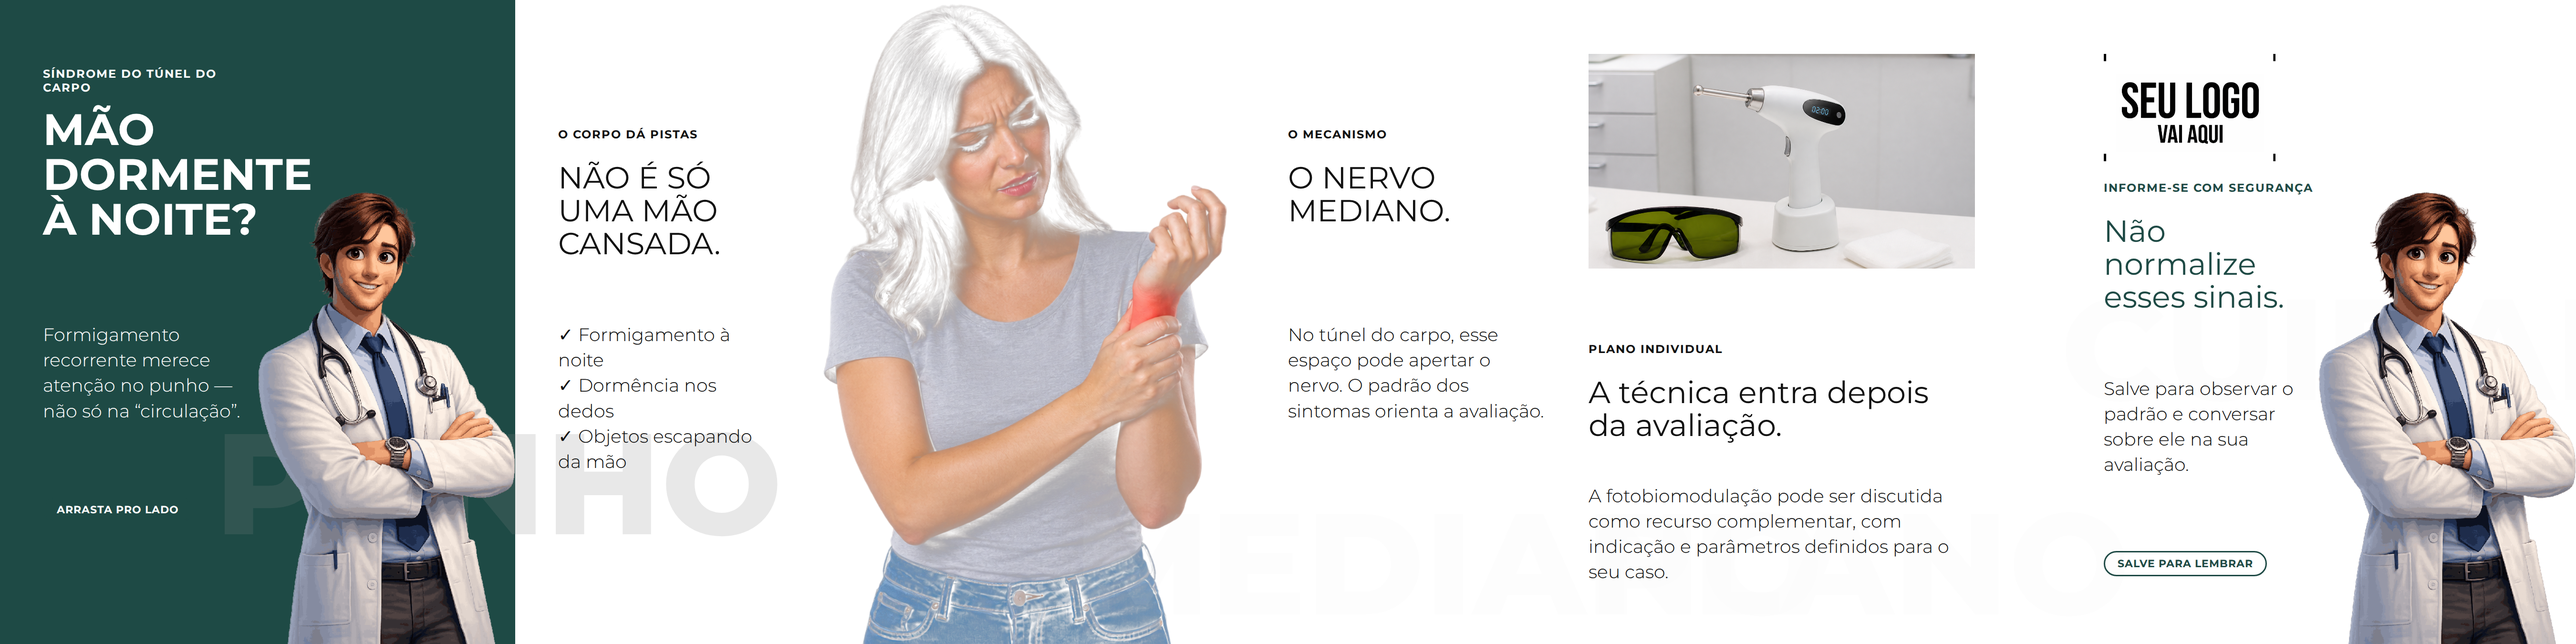
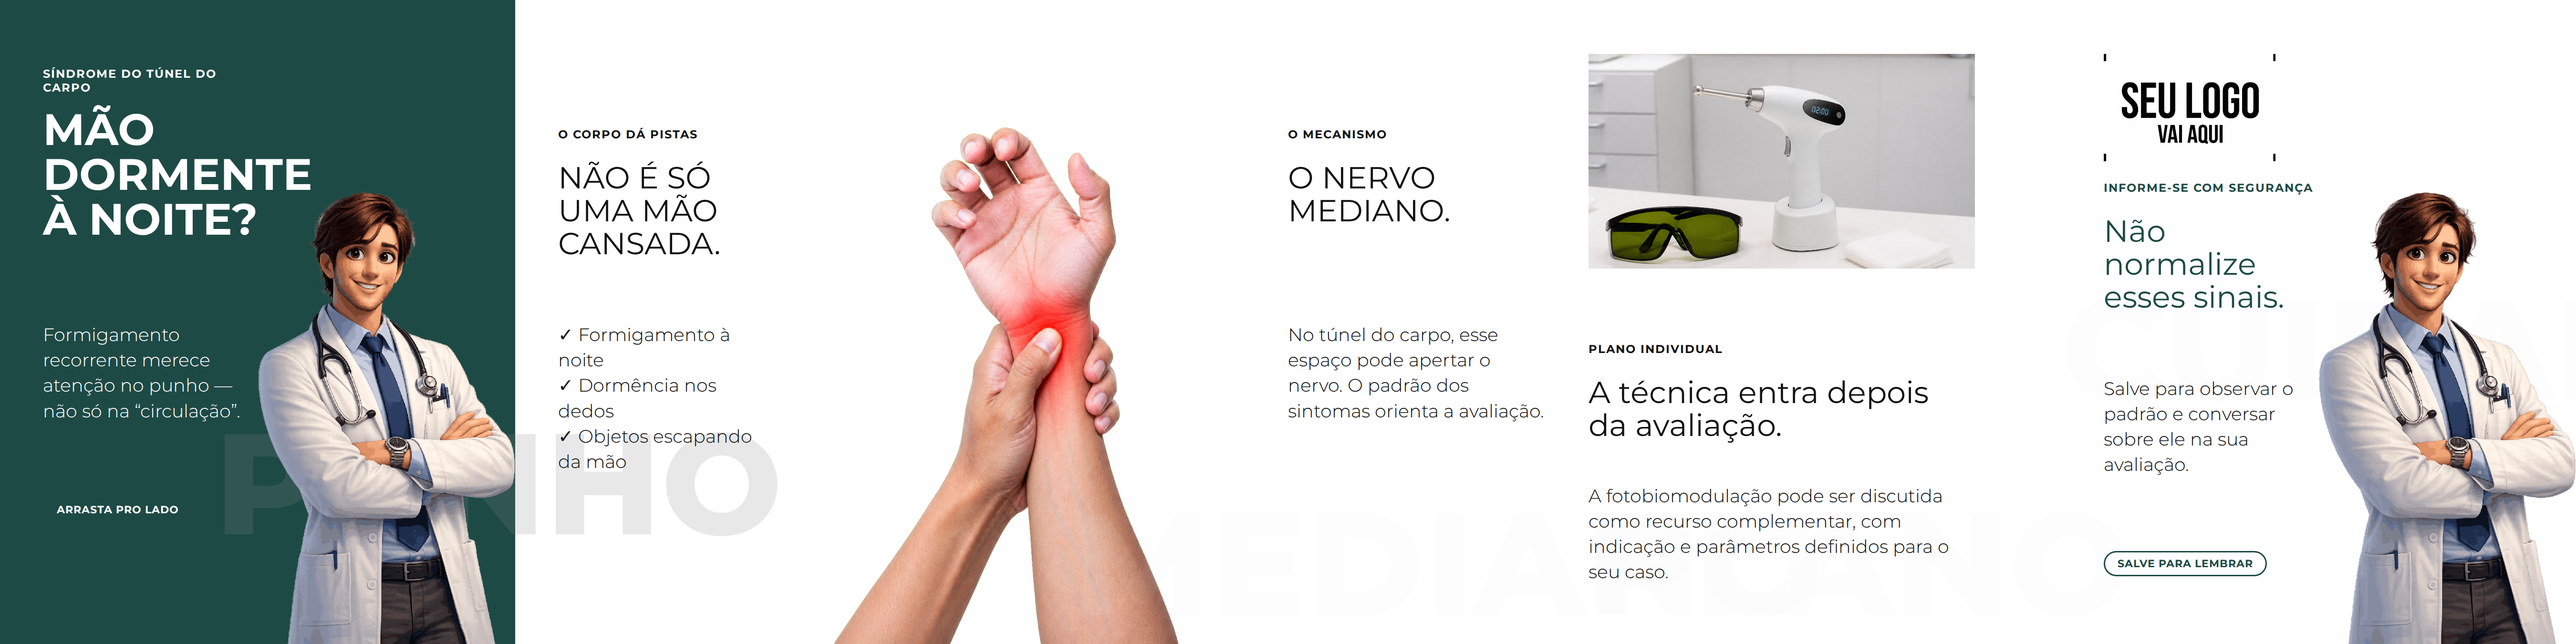
fix: verticalizar travessia carpo cinco

Changed region(s): [[0.3111, 0.0, 0.4978, 1.0]]

diff --git a/packs/laserpro-continuo/certification/cert-lp-v1-carpo-5.md b/packs/laserpro-continuo/certification/cert-lp-v1-carpo-5.md
@@ -16,6 +16,10 @@ travessia S2→S3, com fragmento encostando na base; o único equipamento entra
 somente depois, em S4, como faixa clínica. A transição da capa em acento para o
 miolo branco usa o par de fantasmas `PUNHO`.
 
+Correção de travessia: o recorte passou a PNG RGBA retrato (1024×1536), com
+apenas mãos e antebraços verticais e o punho em vermelho translúcido; não há
+pessoa inteira, rosto, roupa ou cenário.
+
 ## Evidências visuais
 
 - `cert-lp-v1-carpo-5-strip.png`
